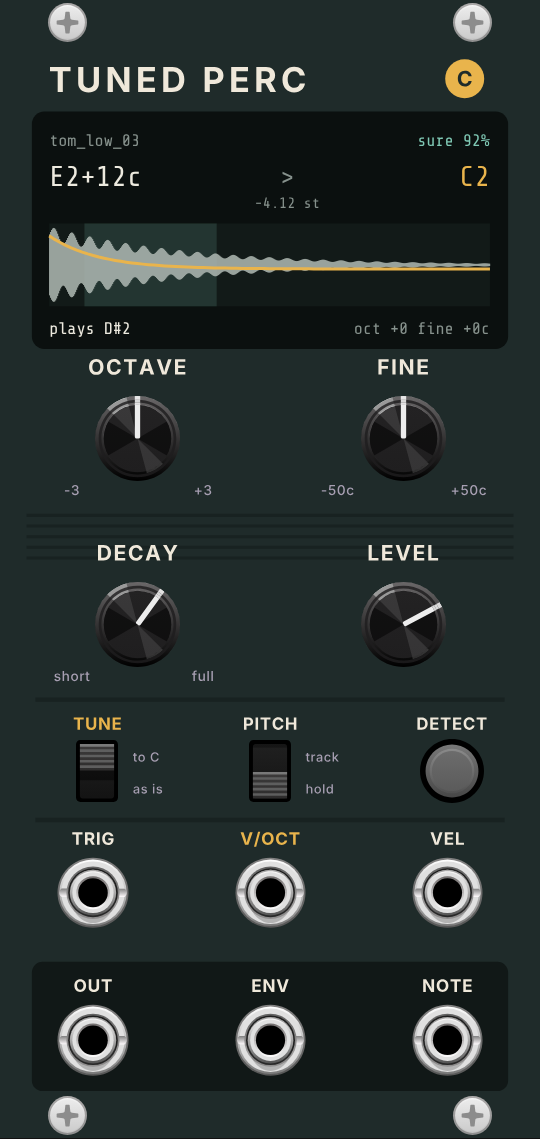
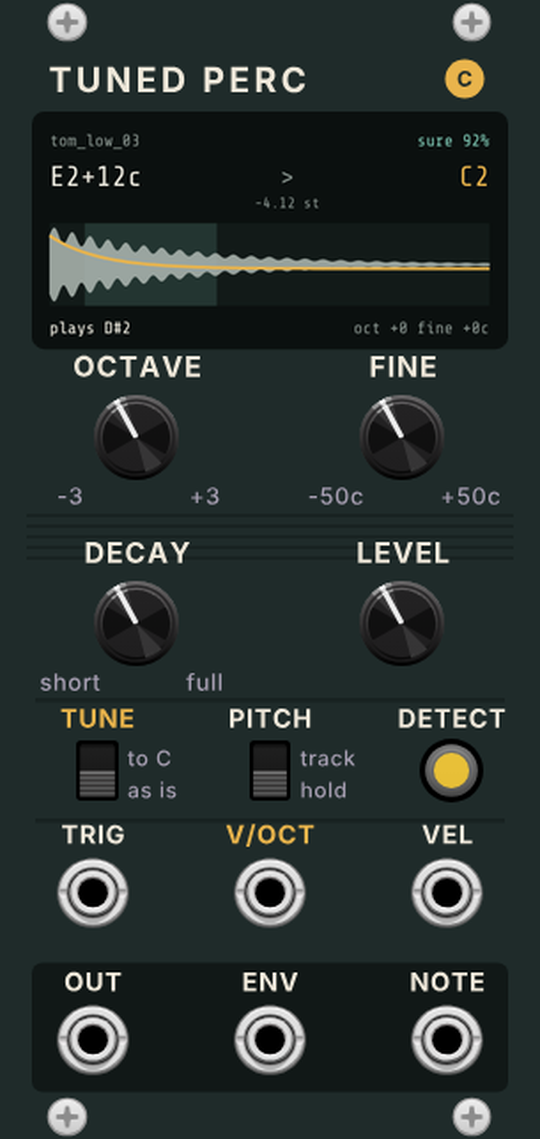
Bigger panel labels (#1)
Control labels are now 3.2 mm and jack labels 2.9 mm, the size approved
for Weighted. Where the labels didn't fit, the panel is wider and the
controls are spread out rather than crowded. Param and port IDs are
unchanged, so existing patches load with their cables in place. A few
long hints moved into the tooltips. panel-preview.png is a mockup of
the new layout.

Claude-Session: https://claude.ai/code/session_011Dr4cjiHxrSVXqbiQ5HsKW

diff --git a/res/make_panel.py b/res/make_panel.py
@@ -82,29 +82,29 @@ add(f'<rect x="3.6" y="12.6" width="{W-7.2}" height="26.8" rx="1.4" fill="#0B100
 # knobs
 for (x, y, lab, lo, hi) in [(15.5, 49.5, "OCTAVE", "-3", "+3"), (45.5, 49.5, "FINE", "-50c", "+50c"),
                              (15.5, 70.5, "DECAY", "short", "full"), (45.5, 70.5, "LEVEL", "", "")]:
-    add(text(lab, x, y - 7.2, 2.4, FONT_BOLD, INK, spacing=0.07))
-    if lo: add(text(lo, x - 7.4, y + 6.4, 1.55, FONT_MED, SOFT))
-    if hi: add(text(hi, x + 7.4, y + 6.4, 1.55, FONT_MED, SOFT))
+    add(text(lab, x, y - 7.0, 3.2, FONT_BOLD, INK, spacing=0.05))
+    if lo: add(text(lo, x - 7.6, y + 7.4, 2.6, FONT_MED, SOFT))
+    if hi: add(text(hi, x + 7.6, y + 7.4, 2.6, FONT_MED, SOFT))
 
 # switches and button
 SW_Y = 87.0
-add(text("TUNE", 11.0, SW_Y - 4.6, 1.9, FONT_BOLD, HOT))
-add(text("to C", 15.0, SW_Y - 1.0, 1.45, FONT_MED, SOFT, anchor="start"))
-add(text("as is", 15.0, SW_Y + 2.6, 1.45, FONT_MED, SOFT, anchor="start"))
-add(text("PITCH", 30.5, SW_Y - 4.6, 1.9, FONT_BOLD, INK))
-add(text("track", 34.5, SW_Y - 1.0, 1.45, FONT_MED, SOFT, anchor="start"))
-add(text("hold", 34.5, SW_Y + 2.6, 1.45, FONT_MED, SOFT, anchor="start"))
-add(text("DETECT", 51.0, SW_Y - 4.6, 1.9, FONT_BOLD, INK))
+add(text("TUNE", 11.0, SW_Y - 4.9, 2.9, FONT_BOLD, HOT))
+add(text("to C", 14.4, SW_Y - 0.6, 2.4, FONT_MED, SOFT, anchor="start"))
+add(text("as is", 14.4, SW_Y + 3.0, 2.4, FONT_MED, SOFT, anchor="start"))
+add(text("PITCH", 30.5, SW_Y - 4.9, 2.9, FONT_BOLD, INK))
+add(text("track", 33.9, SW_Y - 0.6, 2.4, FONT_MED, SOFT, anchor="start"))
+add(text("hold", 33.9, SW_Y + 3.0, 2.4, FONT_MED, SOFT, anchor="start"))
+add(text("DETECT", 51.0, SW_Y - 4.9, 2.9, FONT_BOLD, INK))
 for y in (79.0, 92.6):
     add(f'<line x1="4" y1="{y}" x2="{W-4}" y2="{y}" stroke="{BG_DARK}" stroke-width="0.5"/>')
 
 # jacks
 IN_Y, OUT_Y = 100.8, 117.4
 for x, lab in zip([10.5, 30.5, 50.5], ["TRIG", "V/OCT", "VEL"]):
-    add(text(lab, x, IN_Y - 5.4, 1.95, FONT_BOLD, HOT if lab == "V/OCT" else INK))
+    add(text(lab, x, IN_Y - 5.6, 2.9, FONT_BOLD, HOT if lab == "V/OCT" else INK))
 add(f'<rect x="3.6" y="108.6" width="{W-7.2}" height="14.6" rx="1.2" fill="{OUTBOX}"/>')
 for x, lab in zip([10.5, 30.5, 50.5], ["OUT", "ENV", "NOTE"]):
-    add(text(lab, x, OUT_Y - 5.4, 1.95, FONT_BOLD, INK))
+    add(text(lab, x, OUT_Y - 5.6, 2.9, FONT_BOLD, INK))
 
 svg = (f'<svg xmlns="http://www.w3.org/2000/svg" width="{W}mm" height="{H}mm" viewBox="0 0 {W} {H}">\n' + "\n".join(parts) + "\n</svg>\n")
 open(os.path.join(HERE, "TunedPerc.svg"), "w").write(svg)
